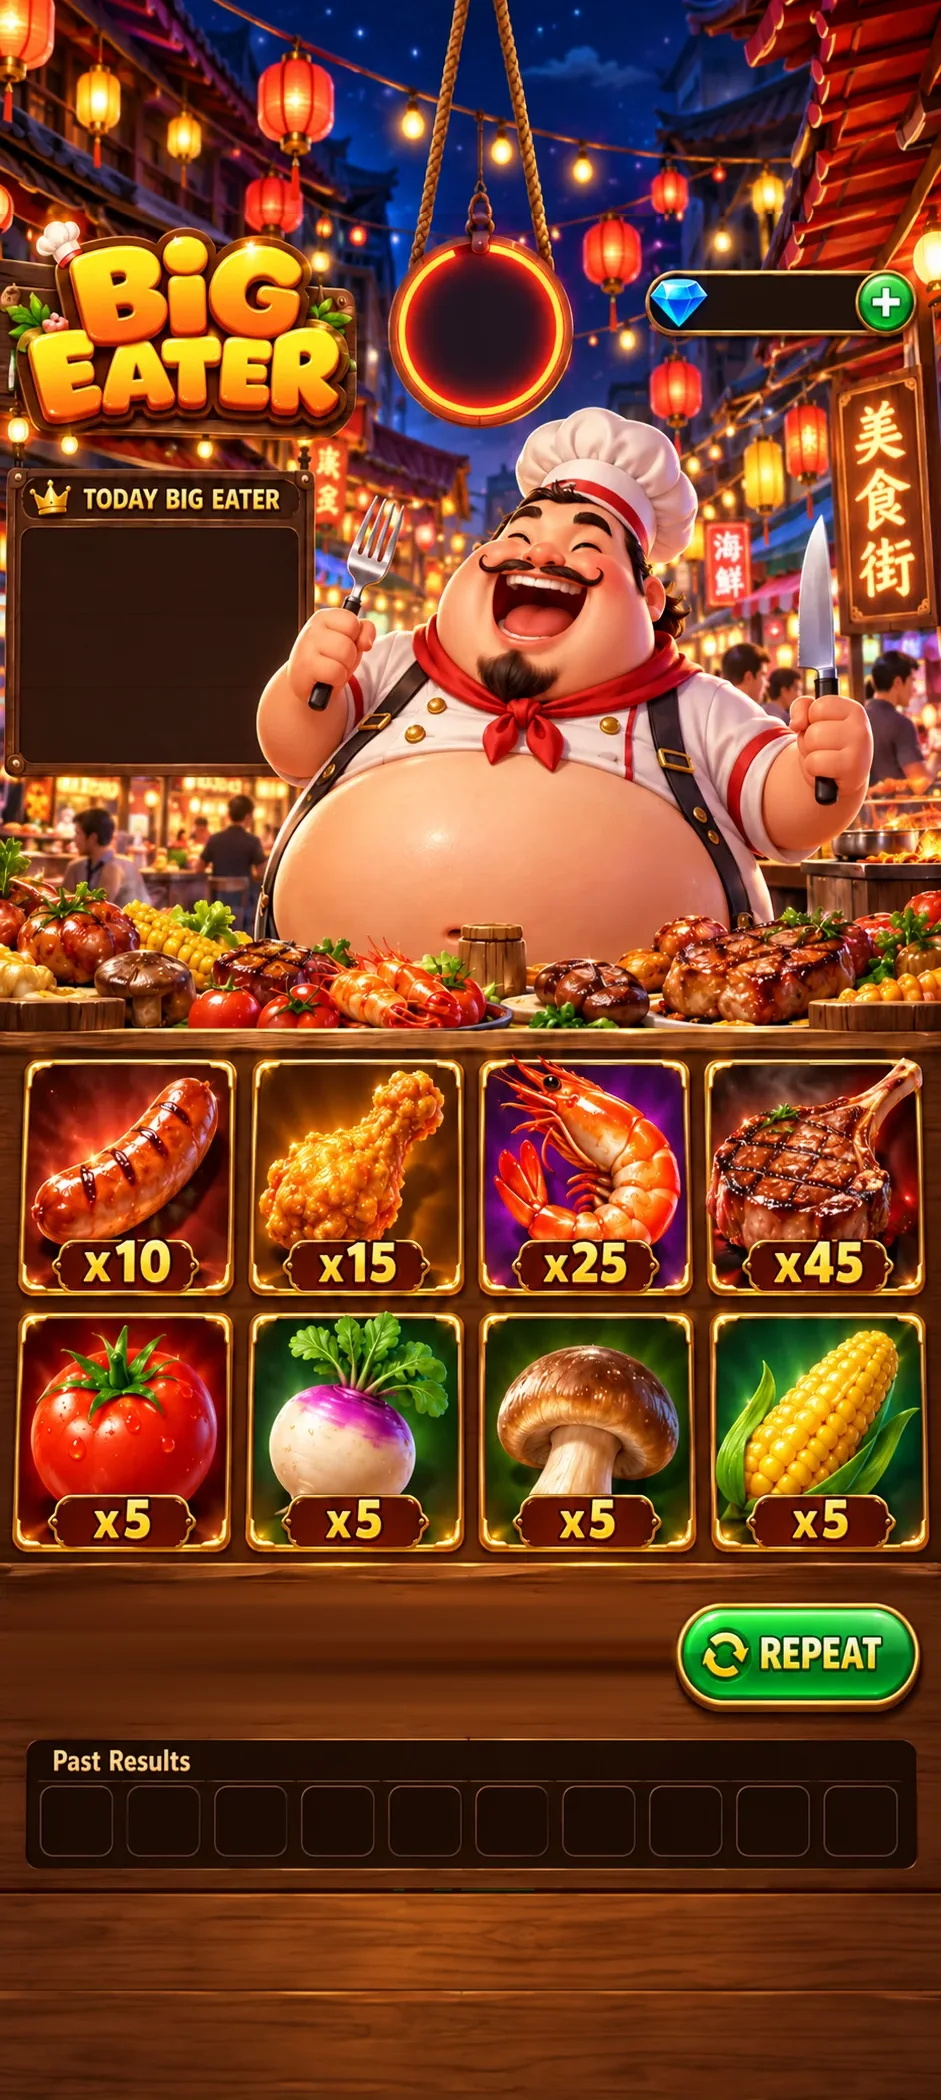
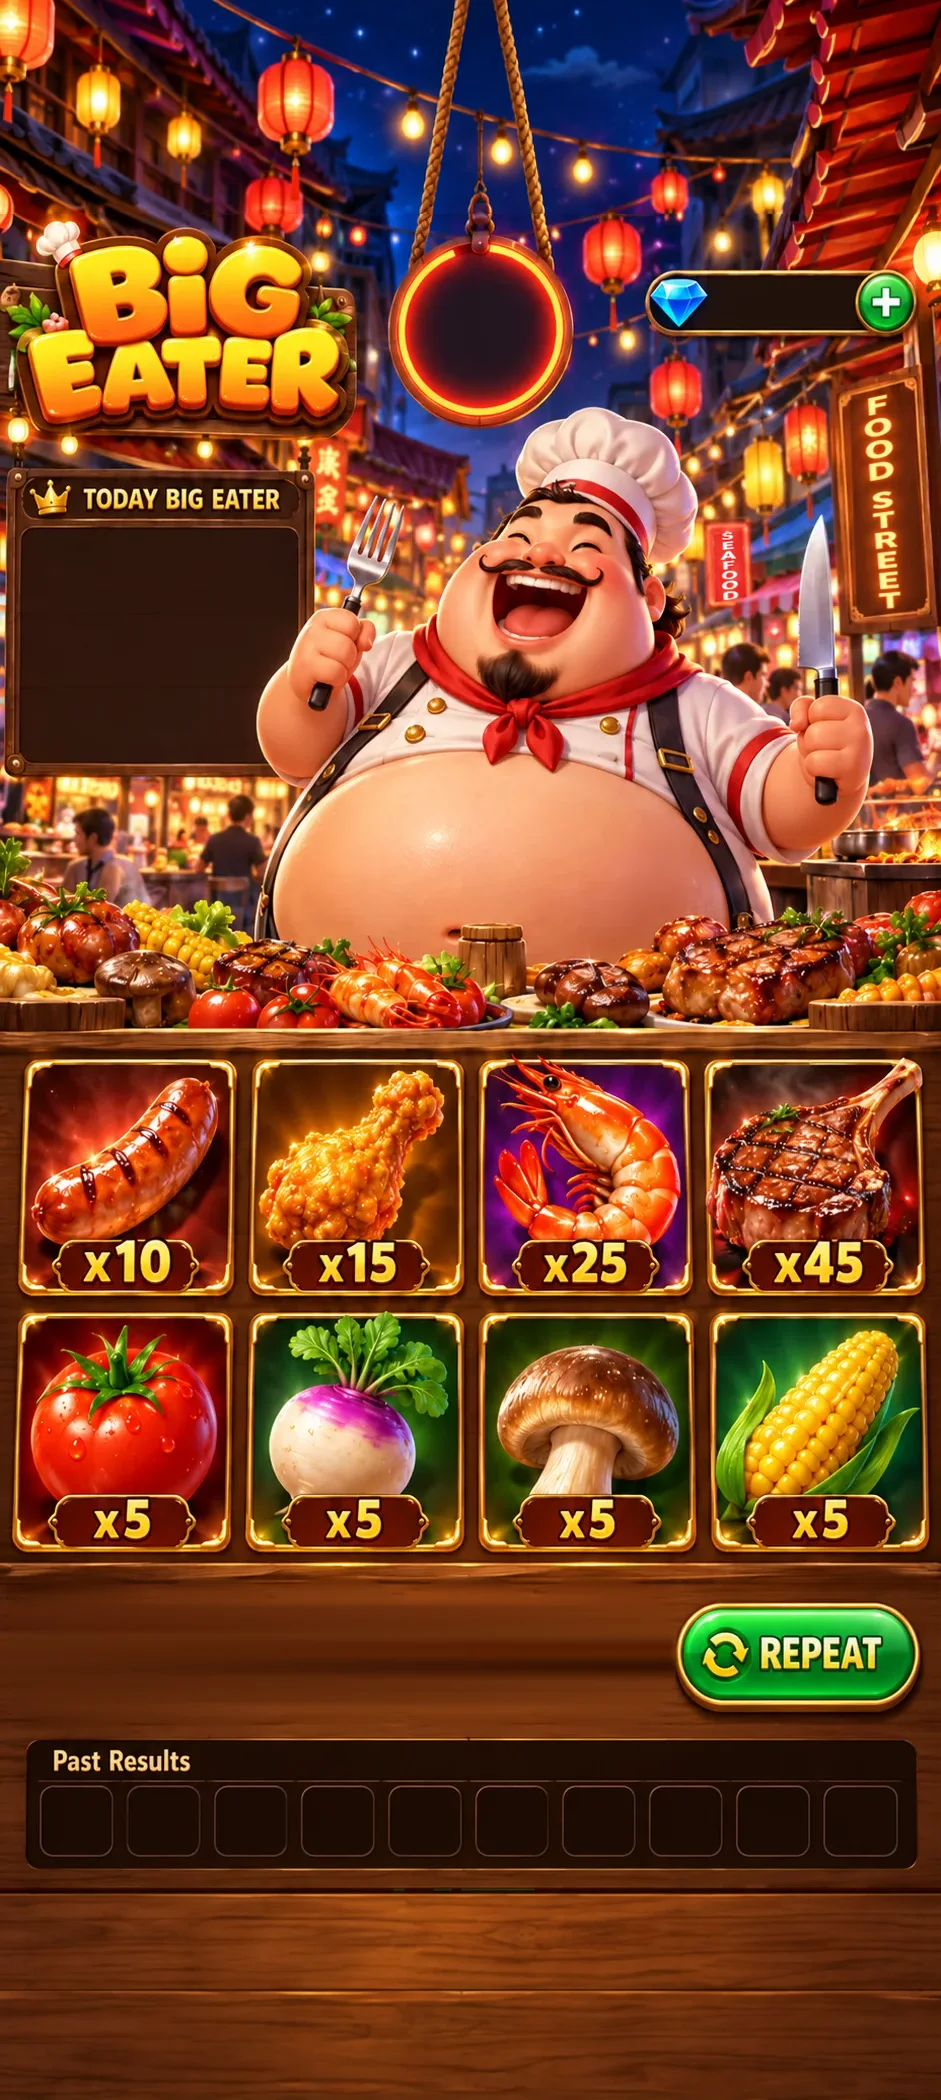
Launch page paints its final look at once; BigEater signs in English
- Name, colour, icon and tips are inlined into the launch page (scripts/launch-meta.mjs), so it no longer
  opens purple and untitled and then switches when meta.json arrives (the "flash" and ring jump); the title
  row keeps its height; page background matches the App's dark WebView colour.
- BigEater: the 美食街 / 海鲜 shop signs now read FOOD STREET / SEAFOOD (plate, extended and wide plates).

Generated with [Devin](https://devin.ai)

Changed region(s): [[0.8937, 0.1857, 0.9862, 0.3095], [0.7396, 0.2476, 0.8013, 0.3095]]

diff --git a/platform/public/launch/index.html b/platform/public/launch/index.html
@@ -7,7 +7,7 @@
 <meta name="referrer" content="no-referrer">
 <title>Game</title>
 <style>
-html,body{margin:0;height:100%;background:#120b24;color:#f6ecd2;font-family:-apple-system,BlinkMacSystemFont,"PingFang SC","Noto Sans SC",sans-serif;overflow:hidden;overscroll-behavior:none}
+html,body{margin:0;height:100%;background:#140b12;color:#f6ecd2;font-family:-apple-system,BlinkMacSystemFont,"PingFang SC","Noto Sans SC",sans-serif;overflow:hidden;overscroll-behavior:none}
 #game{position:fixed;inset:0}
 #status{position:fixed;inset:0;display:flex;align-items:center;justify-content:center;flex-direction:column;gap:14px;text-align:center;padding:24px;background:radial-gradient(circle at 50% 30%,#3a2160,#120b24 70%);transition:opacity .25s}
 #status[hidden]{display:none}
@@ -32,7 +32,7 @@ html,body{margin:0;height:100%;background:#120b24;color:#f6ecd2;font-family:-app
 .ld-icon{width:72%;height:72%;border-radius:22%;object-fit:cover;box-shadow:0 calc(var(--u)*1.6) calc(var(--u)*6) rgba(0,0,0,.55),0 0 0 2px rgba(255,214,140,.45),0 0 calc(var(--u)*8) rgba(255,180,60,.35);animation:ld-breathe 2.4s ease-in-out infinite}
 .ld-icon[hidden]{visibility:hidden}
 @keyframes ld-breathe{50%{transform:scale(1.025)}}
-.ld-title{margin:calc(var(--u)*1.5) 0 0;font-size:clamp(22px,calc(var(--u)*8.4),44px);font-weight:800;letter-spacing:.01em;text-align:center;background:linear-gradient(180deg,#fff6d8 0%,#ffd77a 45%,#e2a33c 100%);-webkit-background-clip:text;background-clip:text;color:transparent;filter:drop-shadow(0 2px 6px rgba(0,0,0,.6))}
+.ld-title{margin:calc(var(--u)*1.5) 0 0;min-height:1.25em;line-height:1.25;font-size:clamp(22px,calc(var(--u)*8.4),44px);font-weight:800;letter-spacing:.01em;text-align:center;background:linear-gradient(180deg,#fff6d8 0%,#ffd77a 45%,#e2a33c 100%);-webkit-background-clip:text;background-clip:text;color:transparent;filter:drop-shadow(0 2px 6px rgba(0,0,0,.6))}
 .ld-pct{font-size:clamp(14px,calc(var(--u)*4.4),22px);font-weight:600;color:#f6ecd2;opacity:.92;font-variant-numeric:tabular-nums}
 #exit{position:fixed;z-index:4;left:calc(10px + var(--host-left,0px));top:calc(10px + var(--host-top,0px));width:38px;height:38px;border-radius:50%;border:1px solid #ffffff55;background:#0008;color:#fff;display:grid;place-items:center;padding:0;-webkit-backdrop-filter:blur(6px);backdrop-filter:blur(6px);box-shadow:0 2px 8px #0006;-webkit-tap-highlight-color:transparent}
 #exit[hidden]{display:none}
@@ -134,7 +134,10 @@ const TIPS={
  arena:{zh:['和真人对手同场竞技','免费练习不消耗金币','邀请好友一起开房间'],en:['Play live against real opponents','Free practice costs no coins','Invite friends to your own room'],ar:['العب مباشرة ضد خصوم حقيقيين','التدريب المجاني لا يستهلك عملات','ادعُ أصدقاءك إلى غرفتك']}};
 const loader=$('loader'),bar=loader.querySelector('.bar'),pct=loader.querySelector('.ld-pct');
 let shownValue=0,target=0,milestone=0,loadedAt=0,finished=false;const started=performance.now(),RING=339.3;
-fetch('/launch/meta.json').then(r=>r.ok?r.json():{}).then(all=>{const m=all[gameId];if(!m)return;
+// Game name, colour, icon and tips are inlined (scripts/launch-meta.mjs) so the first frame is already final;
+// meta.json is only the fallback for a game added after this page was built.
+const LAUNCH_META=/*LAUNCH_META*/{"greedylion":{"name":{"zh":"GreedyLion","en":"GreedyLion","ar":"GreedyLion"},"family":"wheel","color":[154,96,46],"icon":true},"rocketstar2":{"name":{"zh":"RocketStar2","en":"RocketStar2","ar":"RocketStar2"},"family":"crash","color":[139,74,148],"icon":true},"teenpatti":{"name":{"zh":"TeenPatti","en":"TeenPatti","ar":"TeenPatti"},"family":"cards3","color":[133,73,43],"icon":true},"olympus":{"name":{"zh":"Olympus","en":"Olympus","ar":"Olympus"},"family":"slot","color":[182,151,135],"icon":true},"greedycat2":{"name":{"zh":"GreedyCat2","en":"GreedyCat2","ar":"GreedyCat2"},"family":"wheel","color":[204,136,84],"icon":true},"greedybrutal":{"name":{"zh":"GreedyBrutal","en":"GreedyBrutal","ar":"GreedyBrutal"},"family":"wheel","color":[150,80,26],"icon":true},"bigeater":{"name":{"zh":"BigEater","en":"BigEater","ar":"BigEater"},"family":"wheel","color":[189,114,83],"icon":true},"greedyking":{"name":{"zh":"GreedyKing","en":"GreedyKing","ar":"GreedyKing"},"family":"wheel","color":[178,100,56],"icon":true},"greedyforest":{"name":{"zh":"GreedyForest","en":"GreedyForest","ar":"GreedyForest"},"family":"wheel","color":[143,104,59],"icon":true},"herochest":{"name":{"zh":"HeroChest","en":"HeroChest","ar":"HeroChest"},"family":"wheel","color":[139,111,84],"icon":true},"fruitparty":{"name":{"zh":"FruitParty","en":"FruitParty","ar":"FruitParty"},"family":"wheel","color":[175,122,67],"icon":true},"oceanslot":{"name":{"zh":"OceanSlot","en":"OceanSlot","ar":"OceanSlot"},"family":"slot","color":[166,117,109],"icon":true},"mahjongslot":{"name":{"zh":"MahjongSlot","en":"MahjongSlot","ar":"MahjongSlot"},"family":"slot","color":[193,119,48],"icon":true},"cleopatraslot":{"name":{"zh":"CleopatraSlot","en":"CleopatraSlot","ar":"CleopatraSlot"},"family":"slot","color":[154,96,52],"icon":true},"crazygems":{"name":{"zh":"CrazyGems","en":"CrazyGems","ar":"CrazyGems"},"family":"slot","color":[131,127,69],"icon":true},"slot777":{"name":{"zh":"Slot777","en":"Slot777","ar":"Slot777"},"family":"slot","color":[178,110,91],"icon":true},"djlive":{"name":{"zh":"DJLive","en":"DJLive","ar":"DJLive"},"family":"slot","color":[154,81,128],"icon":true},"jackpotslots":{"name":{"zh":"JackpotSlots","en":"JackpotSlots","ar":"JackpotSlots"},"family":"slot","color":[199,105,90],"icon":true},"yummy":{"name":{"zh":"Yummy","en":"Yummy","ar":"Yummy"},"family":"slot","color":[231,105,96],"icon":true},"worldgoal":{"name":{"zh":"WorldGoal","en":"WorldGoal","ar":"WorldGoal"},"family":"slot","color":[150,136,66],"icon":true},"chillislot":{"name":{"zh":"ChilliSlot","en":"ChilliSlot","ar":"ChilliSlot"},"family":"slot","color":[197,104,56],"icon":true},"sphinxlegend":{"name":{"zh":"SphinxLegend","en":"SphinxLegend","ar":"SphinxLegend"},"family":"slot","color":[106,87,82],"icon":true},"nights1001":{"name":{"zh":"1001Nights","en":"1001Nights","ar":"1001Nights"},"family":"slot","color":[83,110,170],"icon":true},"pyramidslots":{"name":{"zh":"PyramidSlots","en":"PyramidSlots","ar":"PyramidSlots"},"family":"slot","color":[149,124,83],"icon":true},"magicslot":{"name":{"zh":"MagicSlot","en":"MagicSlot","ar":"MagicSlot"},"family":"slot","color":[136,82,122],"icon":true},"crazyfruit":{"name":{"zh":"CrazyFruit","en":"CrazyFruit","ar":"CrazyFruit"},"family":"wheel","color":[173,80,31],"icon":true},"magiccard":{"name":{"zh":"MagicCard","en":"MagicCard","ar":"MagicCard"},"family":"wheel","color":[149,84,140],"icon":true},"bountyfootball":{"name":{"zh":"BountyFootball","en":"BountyFootball","ar":"BountyFootball"},"family":"wheel","color":[151,131,79],"icon":true},"footballleague":{"name":{"zh":"FootballLeague","en":"FootballLeague","ar":"FootballLeague"},"family":"wheel","color":[122,124,116],"icon":true},"glorycup":{"name":{"zh":"GloryCup","en":"GloryCup","ar":"GloryCup"},"family":"wheel","color":[130,112,82],"icon":true},"solomonmines":{"name":{"zh":"SolomonMines","en":"SolomonMines","ar":"SolomonMines"},"family":"wheel","color":[121,96,93],"icon":true},"roulette":{"name":{"zh":"Roulette","en":"Roulette","ar":"Roulette"},"family":"wheel","color":[101,45,20],"icon":true},"roulettepro":{"name":{"zh":"RoulettePro","en":"RoulettePro","ar":"RoulettePro"},"family":"wheel","color":[120,65,34],"icon":true},"sicbo":{"name":{"zh":"SicBo","en":"SicBo","ar":"SicBo"},"family":"wheel","color":[113,86,43],"icon":true},"monster":{"name":{"zh":"Monster","en":"Monster","ar":"Monster"},"family":"arcade","color":[144,105,87],"icon":true},"molestar":{"name":{"zh":"MoleStar","en":"MoleStar","ar":"MoleStar"},"family":"arcade","color":[188,142,83],"icon":true},"crash":{"name":{"zh":"Crash","en":"Crash","ar":"Crash"},"family":"crash","color":[186,86,133],"icon":true},"crashstar":{"name":{"zh":"CrashStar","en":"CrashStar","ar":"CrashStar"},"family":"crash","color":[141,97,101],"icon":true},"match":{"name":{"zh":"三消对战","en":"Match Arena","ar":"ساحة المطابقة"},"family":"arena","color":[168,112,118],"icon":true},"golf":{"name":{"zh":"迷你高尔夫","en":"Mini Golf","ar":"غولف مصغّر"},"family":"arena","color":[155,161,106],"icon":true},"carrom":{"name":{"zh":"Carrom 弹盘","en":"Carrom","ar":"كيرم"},"family":"arena","color":[141,101,55],"icon":true},"darts":{"name":{"zh":"飞镖对决","en":"Darts Duel","ar":"مبارزة السهام"},"family":"arena","color":[100,92,85],"icon":true},"ludo":{"name":{"zh":"Ludo 快速版","en":"Ludo Quick","ar":"لودو السريعة"},"family":"arena","color":[164,102,61],"icon":true},"jackaroo":{"name":{"zh":"Jackaroo 搭档赛","en":"Jackaroo Partners","ar":"جاكارو الشركاء"},"family":"arena","color":[112,80,38],"icon":true},"domino":{"name":{"zh":"多米诺对战","en":"Domino Duel","ar":"مبارزة الدومينو"},"family":"arena","color":[154,126,88],"icon":true},"pool":{"name":{"zh":"八球对决","en":"8-Ball Duel","ar":"مبارزة الكرة 8"},"family":"arena","color":[83,95,81],"icon":true},"bowling":{"name":{"zh":"保龄球对决","en":"Bowling Duel","ar":"مبارزة البولينج"},"family":"arena","color":[138,103,142],"icon":true},"run":{"name":{"zh":"沙丘竞速","en":"Dune Dash","ar":"سباق الكثبان"},"family":"arena","color":[195,168,129],"icon":true},"towerlink":{"name":{"zh":"连线占塔","en":"Tower Link","ar":"ربط الأبراج"},"family":"arena","color":[39,65,91],"icon":true},"thunder":{"name":{"zh":"雷霆王座","en":"Thunder Throne","ar":"عرش الرعد"},"family":"slot","color":[108,101,121],"icon":true},"tiger":{"name":{"zh":"虎虎生财","en":"Golden Tiger","ar":"النمر الذهبي"},"family":"slot","color":[198,121,77],"icon":true}}/*END_LAUNCH_META*/;
+(LAUNCH_META[gameId]?Promise.resolve(LAUNCH_META):fetch('/launch/meta.json').then(r=>r.ok?r.json():{})).then(all=>{const m=all[gameId];if(!m)return;
  loader.querySelector('.ld-title').textContent=m.name?.[lang]||m.name?.en||'';
  if(m.color)loader.style.setProperty('--c',m.color.map(v=>Math.round(v*.62)).join(','));
  if(m.icon){const img=loader.querySelector('.ld-icon');img.onload=()=>{img.hidden=false;};img.src='/launch/icons/'+gameId+'.webp';}
